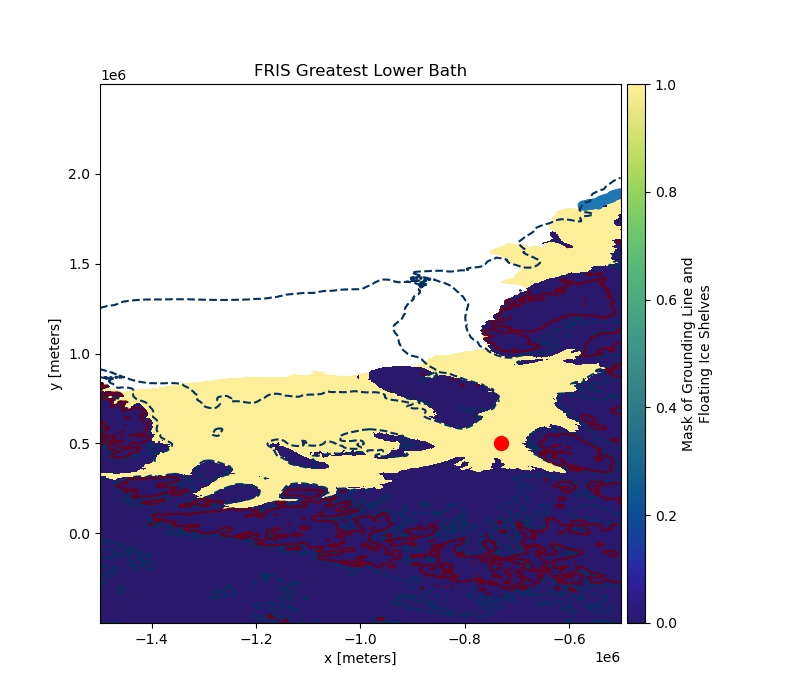
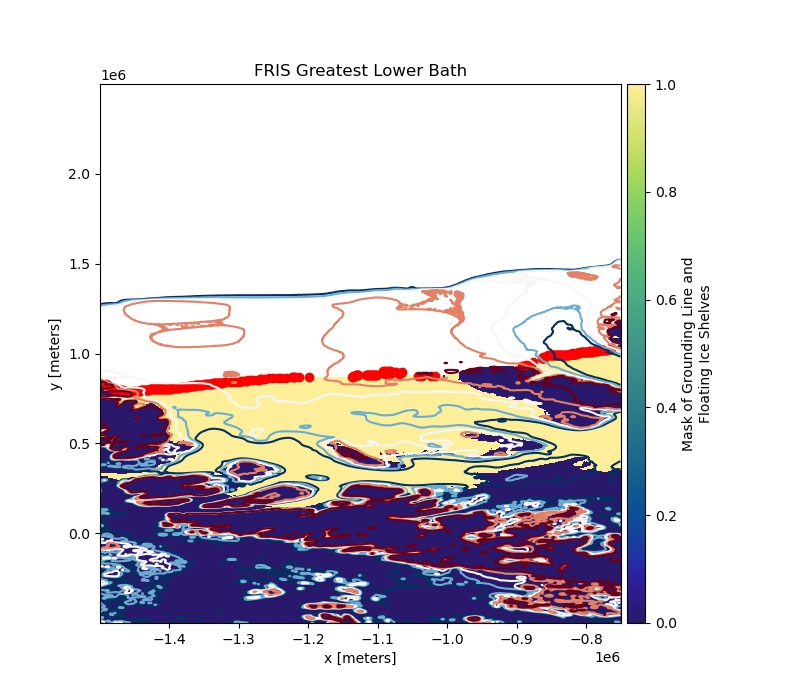
in working email state

Changed region(s): [[0.125, 0.27, 0.7812, 0.93], [0.1875, 0.9, 0.2188, 0.93]]

diff --git a/view.py b/view.py
@@ -30,16 +30,22 @@ def highestBoundingBath(shelf,shelfname,seedcoord,searchrange,endcoord):
             return bath,alllocations
     return None,None
 
-def ocean_search(shelf,seedcoord,bath,endcoords):
+def ocean_search(shelf,start,openocean,lastconnect,lastnotconnect,stepsize=50):
     depth = shelf.bed.values
     ice = shelf.icemask_grounded_and_shelves.values
-    moves = list(itertools.product(*[[-100,0,100],[-100,0,100]]))
-    seedcoord = seedcoord[::-1]
-    for l in range(len(endcoords)):
-        endcoords[l] = endcoords[l][::-1]
+
+    moves = list(itertools.product(*[[-stepsize,0,stepsize],[-stepsize,0,stepsize]]))
+
+    #the whole ordering thing confused me so I'm reversing
+    start = start[::-1]
+    openocean = openocean[::-1]
+    lastconnect = lastconnect[::-1]
+    lastnotconnect = lastnotconnect[::-1]
+
     flag = False
-    locations = [seedcoord]
+    locations = [start]
     alllocations = []
+    bath = depth[start[0],start[1]]
     while len(locations)>0 and not flag:
         currentlocation = locations.pop(0)
         for m in moves:
@@ -49,21 +55,21 @@ def ocean_search(shelf,seedcoord,bath,endcoords):
                 if ice[nextmove[0],nextmove[1]]!=0:
                     locations.append(nextmove)
                     alllocations.append(nextmove)
-                    for l in range(len(endcoords)):
-                        if abs(nextmove[0]-endcoords[l][0]) < 100 and abs(nextmove[1]-endcoords[l][1]) < 100:
-                            #ec = np.asarray(endcoords)
-                            #alllocations = np.asarray(alllocations)
-                            #print(ec)
-                            #print(seedcoord)
-                            #plt.scatter(alllocations.T[0],alllocations.T[1],c="yellow")
-                            #plt.scatter(seedcoord[0],seedcoord[1],c="red")
-                            #plt.scatter(ec.T[0],ec.T[1],c="green")
-                            #plt.savefig("zomp.jpg")
-                            #plt.close()
-                            #print("wait: ")
-                            #input()
-                            return True
-
+                    if (abs(nextmove[0]-lastconnect[0]) < stepsize and abs(nextmove[1]-lastconnect[1]) < stepsize) \
+                        or (abs(nextmove[0]-openocean[0]) < stepsize and abs(nextmove[1]-openocean[1]) < stepsize):
+                        #plt.scatter(start[0],start[1],c="green")
+                        #plt.scatter(openocean[0],openocean[1],c="red")
+                        #plt.scatter(lastconnect[0],lastconnect[1],c="red")
+                        #plt.scatter(lastnotconnect[0],lastnotconnect[1],c="purple")
+                        #alll = np.asarray(alllocations).T
+                        #plt.scatter(alll[0],alll[1],c="yellow")
+                        #plt.savefig("path.jpg")
+                        #plt.close()
+                        #print("wait")
+                        #input()
+                        return True
+                    if (abs(nextmove[0]-lastnotconnect[0]) < stepsize and abs(nextmove[1]-lastnotconnect[1]) < stepsize):
+                        return False
     return False
 
 def trimDataset(bm,xbounds,ybounds):
@@ -77,8 +83,8 @@ def trimDataset(bm,xbounds,ybounds):
 def FRIS():
     # Load the ice thickness grid
     bedmap = rh.fetch_bedmap2(datasets=["bed","thickness","icemask_grounded_and_shelves"])
-    FRISx = [ -3*(10**6),1*(10**6)]
-    FRISx = [ -1.5*(10**6),-0.5*(10**6)]
+    FRISx = [ -3*(10**6),-0.5*(10**6)]
+    FRISx = [ -1.5*(10**6),-0.75*(10**6)]
     FRISy = [-0.5*(10**6), 2.5*(10**6)]
     FRIS = trimDataset(bedmap,FRISx,FRISy)
     plt.figure(figsize=(8, 7))
@@ -88,6 +94,8 @@ def FRIS():
     seed=[int(-7.3e+05),int(5e+05)]
     seedcord = selectPoint(FRIS,seed[0],seed[1])
     endcord = selectPoint(FRIS,int(-1.6e+06),int(1.4e+06))
+    lastnotconnect = [999999999,9999999999]
+    print("for the red dot", ocean_search(FRIS,seedcord,endcord,seedcord,lastnotconnect))
 
     baths = list(range(-1000,-6,10))[::-1]
     #bath,alllocations = highestBoundingBath(FRIS,"FRIS",seedcord,baths,endcord)
@@ -104,27 +112,30 @@ def FRIS():
     )
 
     mc, mx, my = highlight_margin(FRIS)
+    mcnp = np.asarray(mc)
     mask = []
     print(len(mc))
-    endcords = [endcord,endcord]
-    for i in range(100):#len(mc)):
-        if i % 100 == 0:
+    lastconnect = endcord
+    lastnotconnect = [999999999,9999999999]
+    for i in range(len(mc)):
+        if i % 10 == 0:
             print(i)
-        mask.append(ocean_search(FRIS,mc[i],FRIS.bed.values[mc[i][0]][mc[i][1]],endcords))
+        mask.append(ocean_search(FRIS,mc[i],endcord,lastconnect,lastnotconnect,stepsize=100))
         if mask[-1]:
-            endcords[-1] = seedcord
-    for i in range(100,len(mc)):
-        mask.append(False)
+            lastconnect = mc[i]
+        else:
+            lastnotconnect = mc[i]
 
     mx, my, mask = np.asarray(mx),np.asarray(my),np.asarray(mask)
-    print(mask,mx)
+    mask = ~mask
+    pe = FRIS.bed.plot.contour(
+        ax=ax,levels=range(-1000,0,200),c="red")
     mx = np.asarray(mx[mask])
     my = np.asarray(my[mask])
-    ax.scatter(mx,my)
+    print(len(mx)," out of ",len(mc))
+    ax.scatter(mx,my,c="red")
 
 
-    pe = FRIS.bed.plot.contour(
-        ax=ax,levels=[0,bath],c="red")
     #pd = FRIS.plot.contour(
         #ax=ax,levels=range(-1400,0,200))
     plt.scatter(seed[0],seed[1],s=100,c="red")
@@ -144,14 +155,14 @@ def selectPoint(shelf,xval,yval):
 def PIG():
     # Load the ice thickness grid
     bedmap = rh.fetch_bedmap2(datasets=["bed","thickness","surface","icemask_grounded_and_shelves"])
-    FRISx = [ -1.8*(10**6),-1.4*(10**6)]
+    FRISx = [ -1.7*(10**6),-1.4*(10**6)]
     FRISy = [-.4*(10**6), -0.2*(10**6)]
     FRIS = trimDataset(bedmap,FRISx,FRISy)
     plt.figure(figsize=(8, 7))
     ax = plt.subplot(111)
     seed = [int(-1.605e+06),int(-0.275e+06)]
     seedcord = selectPoint(FRIS,seed[0],seed[1])
-    endcord = selectPoint(FRIS,int(-1.65e+06),int(-0.375e+06))
+    endcord = selectPoint(FRIS,int(-1.620e+06),int(-0.380e+06))
     #seed = np.unravel_index(np.argmin(FRIS.values, axis=None), FRIS.values.shape)
     baths = list(range(-620,-200,10))[::-1]
     bath,alllocations = highestBoundingBath(FRIS,"PIG",seedcord,baths,endcord)
@@ -159,6 +170,23 @@ def PIG():
     print(bath)
     if not bath:
         bath=-1000
+    mc, mx, my = highlight_margin(FRIS)
+    mask = []
+    print(len(mc))
+    lastconnect = endcord
+    lastnotconnect = [999999999,9999999999]
+    for i in range(len(mc)):
+        if i % 10 == 0:
+            print(i)
+        mask.append(ocean_search(FRIS,mc[i],endcord,lastconnect,lastnotconnect,stepsize=10))
+        if mask[-1]:
+            lastconnect = mc[i]
+        else:
+            lastnotconnect = mc[i]
+
+    mx, my, mask = np.asarray(mx),np.asarray(my),np.asarray(mask)
+    mx,my = mx[~mask], my[~mask]
+    print(len(mx),len(mc))
     pc = FRIS.icemask_grounded_and_shelves.plot.pcolormesh(
         ax=ax, cmap=cmocean.cm.haline, cbar_kwargs=dict(pad=0.01, aspect=30),
     )
@@ -168,8 +196,7 @@ def PIG():
         ax=ax,levels=[bath],c="red")
     pd = FRIS.bed.plot.contour(
         ax=ax,levels=range(-1000,0,200))
-    mc, mx, my = highlight_margin(FRIS)
-    ax.scatter(mx,my)
+    ax.scatter(mx,my,c="red")
     ax.clabel(
         pd,  # Typically best results when labelling line contours.
         colors=['black'],
@@ -178,8 +205,6 @@ def PIG():
         fmt=' {:.0f} '.format,  # Labes as integers, with some extra space.
     )
 
-    plt.scatter(seed[0],seed[1],s=100,c="red")
-    plt.scatter(FRIS.x[endcord[0]],FRIS.y[endcord[1]],s=100,c="red")
     #plt.scatter(FRIS.x[alllocations.T[1,:]],FRIS.y[alllocations.T[0,:]])
     ax.set_title("PIG Greatest Lower Bath")
     plt.savefig("PIG.jpg")
@@ -187,14 +212,14 @@ def PIG():
 def ROSS():
     # Load the ice thickness grid
     bedmap = rh.fetch_bedmap2(datasets=["bed","thickness","surface","icemask_grounded_and_shelves"])
-    FRISx = [ -1*(10**6),0.5*(10**6)]
-    FRISy = [-2*(10**6), 0]
+    FRISx = [ -0.575*(10**6),0.375*(10**6)]
+    FRISy = [-1.5*(10**6), 0]
     FRIS = trimDataset(bedmap,FRISx,FRISy)
     plt.figure(figsize=(8, 7))
     ax = plt.subplot(111)
     seed = [int(-1.605e+06),int(-0.275e+06)]
     seedcord = selectPoint(FRIS,seed[0],seed[1])
-    endcord = selectPoint(FRIS,int(-1.65e+06),int(-0.375e+06))
+    endcord = selectPoint(FRIS,int(-0.45e+06),int(-1.42e+06))
     #seed = np.unravel_index(np.argmin(FRIS.values, axis=None), FRIS.values.shape)
     baths = list(range(-620,-200,10))[::-1]
     #bath,alllocations = highestBoundingBath(FRIS,"PIG",seedcord,baths,endcord)
@@ -206,12 +231,24 @@ def ROSS():
     pc = FRIS.icemask_grounded_and_shelves.plot.pcolormesh(
         ax=ax, cmap=cmocean.cm.haline, cbar_kwargs=dict(pad=0.01, aspect=30),
     )
-    pe = FRIS.bed.plot.contour(
-        ax=ax,levels=[bath],c="red")
     pd = FRIS.bed.plot.contour(
-        ax=ax,levels=range(-1000,0,100),cmap=cmocean.cm.gray)
+        ax=ax,levels=range(-1000,0,200),cmap=cmocean.cm.gray)
     mc, mx, my = highlight_margin(FRIS)
-    ax.scatter(mx,my)
+    mask = []
+    lastconnect = endcord
+    lastnotconnect = [999999999,9999999999]
+    for i in range(len(mc)):
+        if i % 10 == 0:
+            print(i)
+        mask.append(ocean_search(FRIS,mc[i],endcord,lastconnect,lastnotconnect,stepsize=100))
+        if mask[-1]:
+            lastconnect = mc[i]
+        else:
+            lastnotconnect = mc[i]
+    mx, my, mask = np.asarray(mx),np.asarray(my),np.asarray(mask)
+    mask = ~mask
+    ax.scatter(mx[mask],my[mask],c="red")
+    print(len(mx[mask]),len(mc))
     ax.clabel(
         pd,  # Typically best results when labelling line contours.
         colors=['black'],
@@ -220,8 +257,7 @@ def ROSS():
         fmt=' {:.0f} '.format,  # Labes as integers, with some extra space.
     )
 
-    plt.scatter(seed[0],seed[1],s=100,c="red")
-    plt.scatter(FRIS.x[endcord[0]],FRIS.y[endcord[1]],s=100,c="red")
+    #plt.scatter(FRIS.x[endcord[0]],FRIS.y[endcord[1]],s=100,c="red")
     #plt.scatter(FRIS.x[alllocations.T[1,:]],FRIS.y[alllocations.T[0,:]])
     ax.set_title("ROSS Greatest Lower Bath")
     plt.savefig("ROSS.jpg")
@@ -239,7 +275,7 @@ def highlight_margin(shelf):
                 c = icemask[i][j+1]
                 d = icemask[i][j-1]
                 if np.isnan([a,b,c,d]).any():
-                    margin_coords.append(tuple([i,j]))
+                    margin_coords.append(tuple([j,i]))
                     margin_x.append(shelf.x[j])
                     margin_y.append(shelf.y[i])
     return margin_coords, margin_x, margin_y
@@ -255,5 +291,5 @@ def fullmap():
     ax.set_title("Full Map")
     plt.savefig("full.jpg")
 #PIG()
-FRIS()
-#ROSS()
+#FRIS()
+ROSS()
